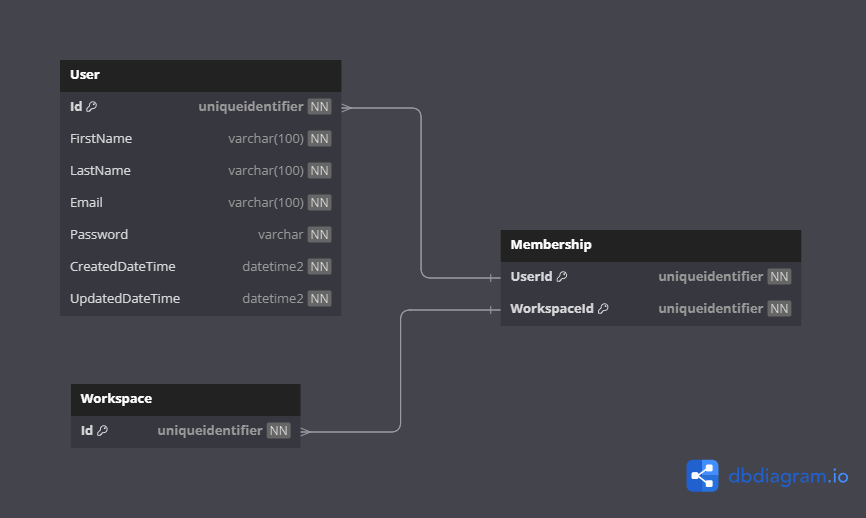
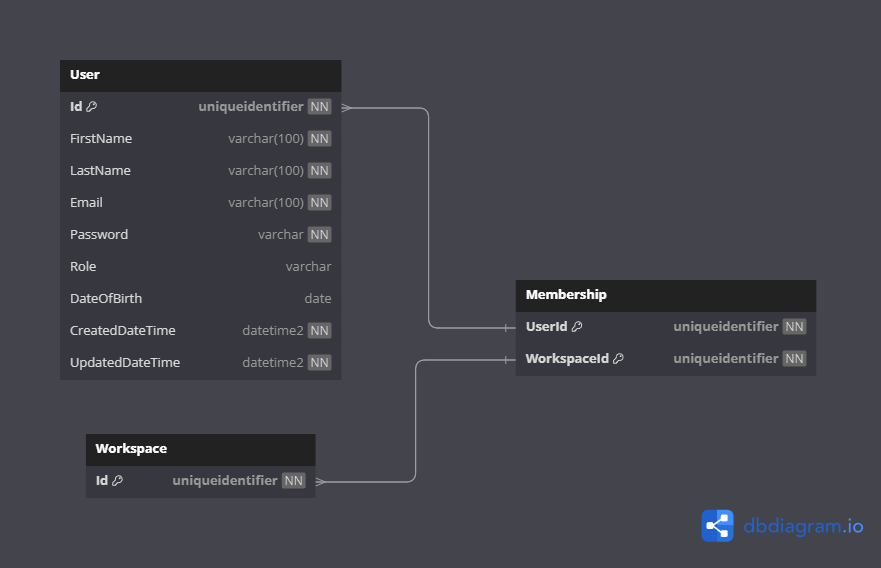
#37 Documentation - Update User Diagrams and Api endpoints for registering and updating a user + domain User aggregate

diff --git a/docs/api/Api.User.md b/docs/api/Api.User.md
@@ -47,13 +47,15 @@ PUT {{host}}/api/users
 
 Sends body data that the new workspace needs to be updated.
 <br>
-All parameters are optional except the id.
+*Role* and *Date of Birth* are optional, but the first three are mandatory.
 
 ```json
 {
   "id": "00000000-0000-0000-0000-000000000000",
   "firstName": "New FirstName",
-  "lastName": "New lastName"
+  "lastName": "New lastName",
+  "role": null,
+  "dateOfBirth": "2000-12-21"
 }
 ```
 

diff --git a/docs/api/Api.Auth.md b/docs/api/Api.Auth.md
@@ -34,10 +34,12 @@ Sends data needed to create the user in body.
 
 ```json
 {
-    "firstName": "Firsty",
-    "lastName": "Lasty",
-    "email": "FirstLasty@example.com",
-    "password": "password123"
+  "firstName": "Firsty",
+  "lastName": "Lasty",
+  "email": "FirstLasty@example.com",
+  "password": "password123",
+  "role": "Software Developer",
+  "dateOfBirth": "2000-12-21"
 }
 ```
 

diff --git a/docs/domain/aggregates/Aggregate.User.md b/docs/domain/aggregates/Aggregate.User.md
@@ -29,7 +29,7 @@ class User
     "last": "Doe"
   },
   "role": "Software Developer",
-  "dateOfBirth": "2023-12-23",
+  "dateOfBirth": "2000-12-21",
   "createdDateTime": "2020-01-01T00:00:00.0000000Z",
   "updatedDateTime": "2020-01-01T00:00:00.0000000Z",
   "memberships": [{}]
